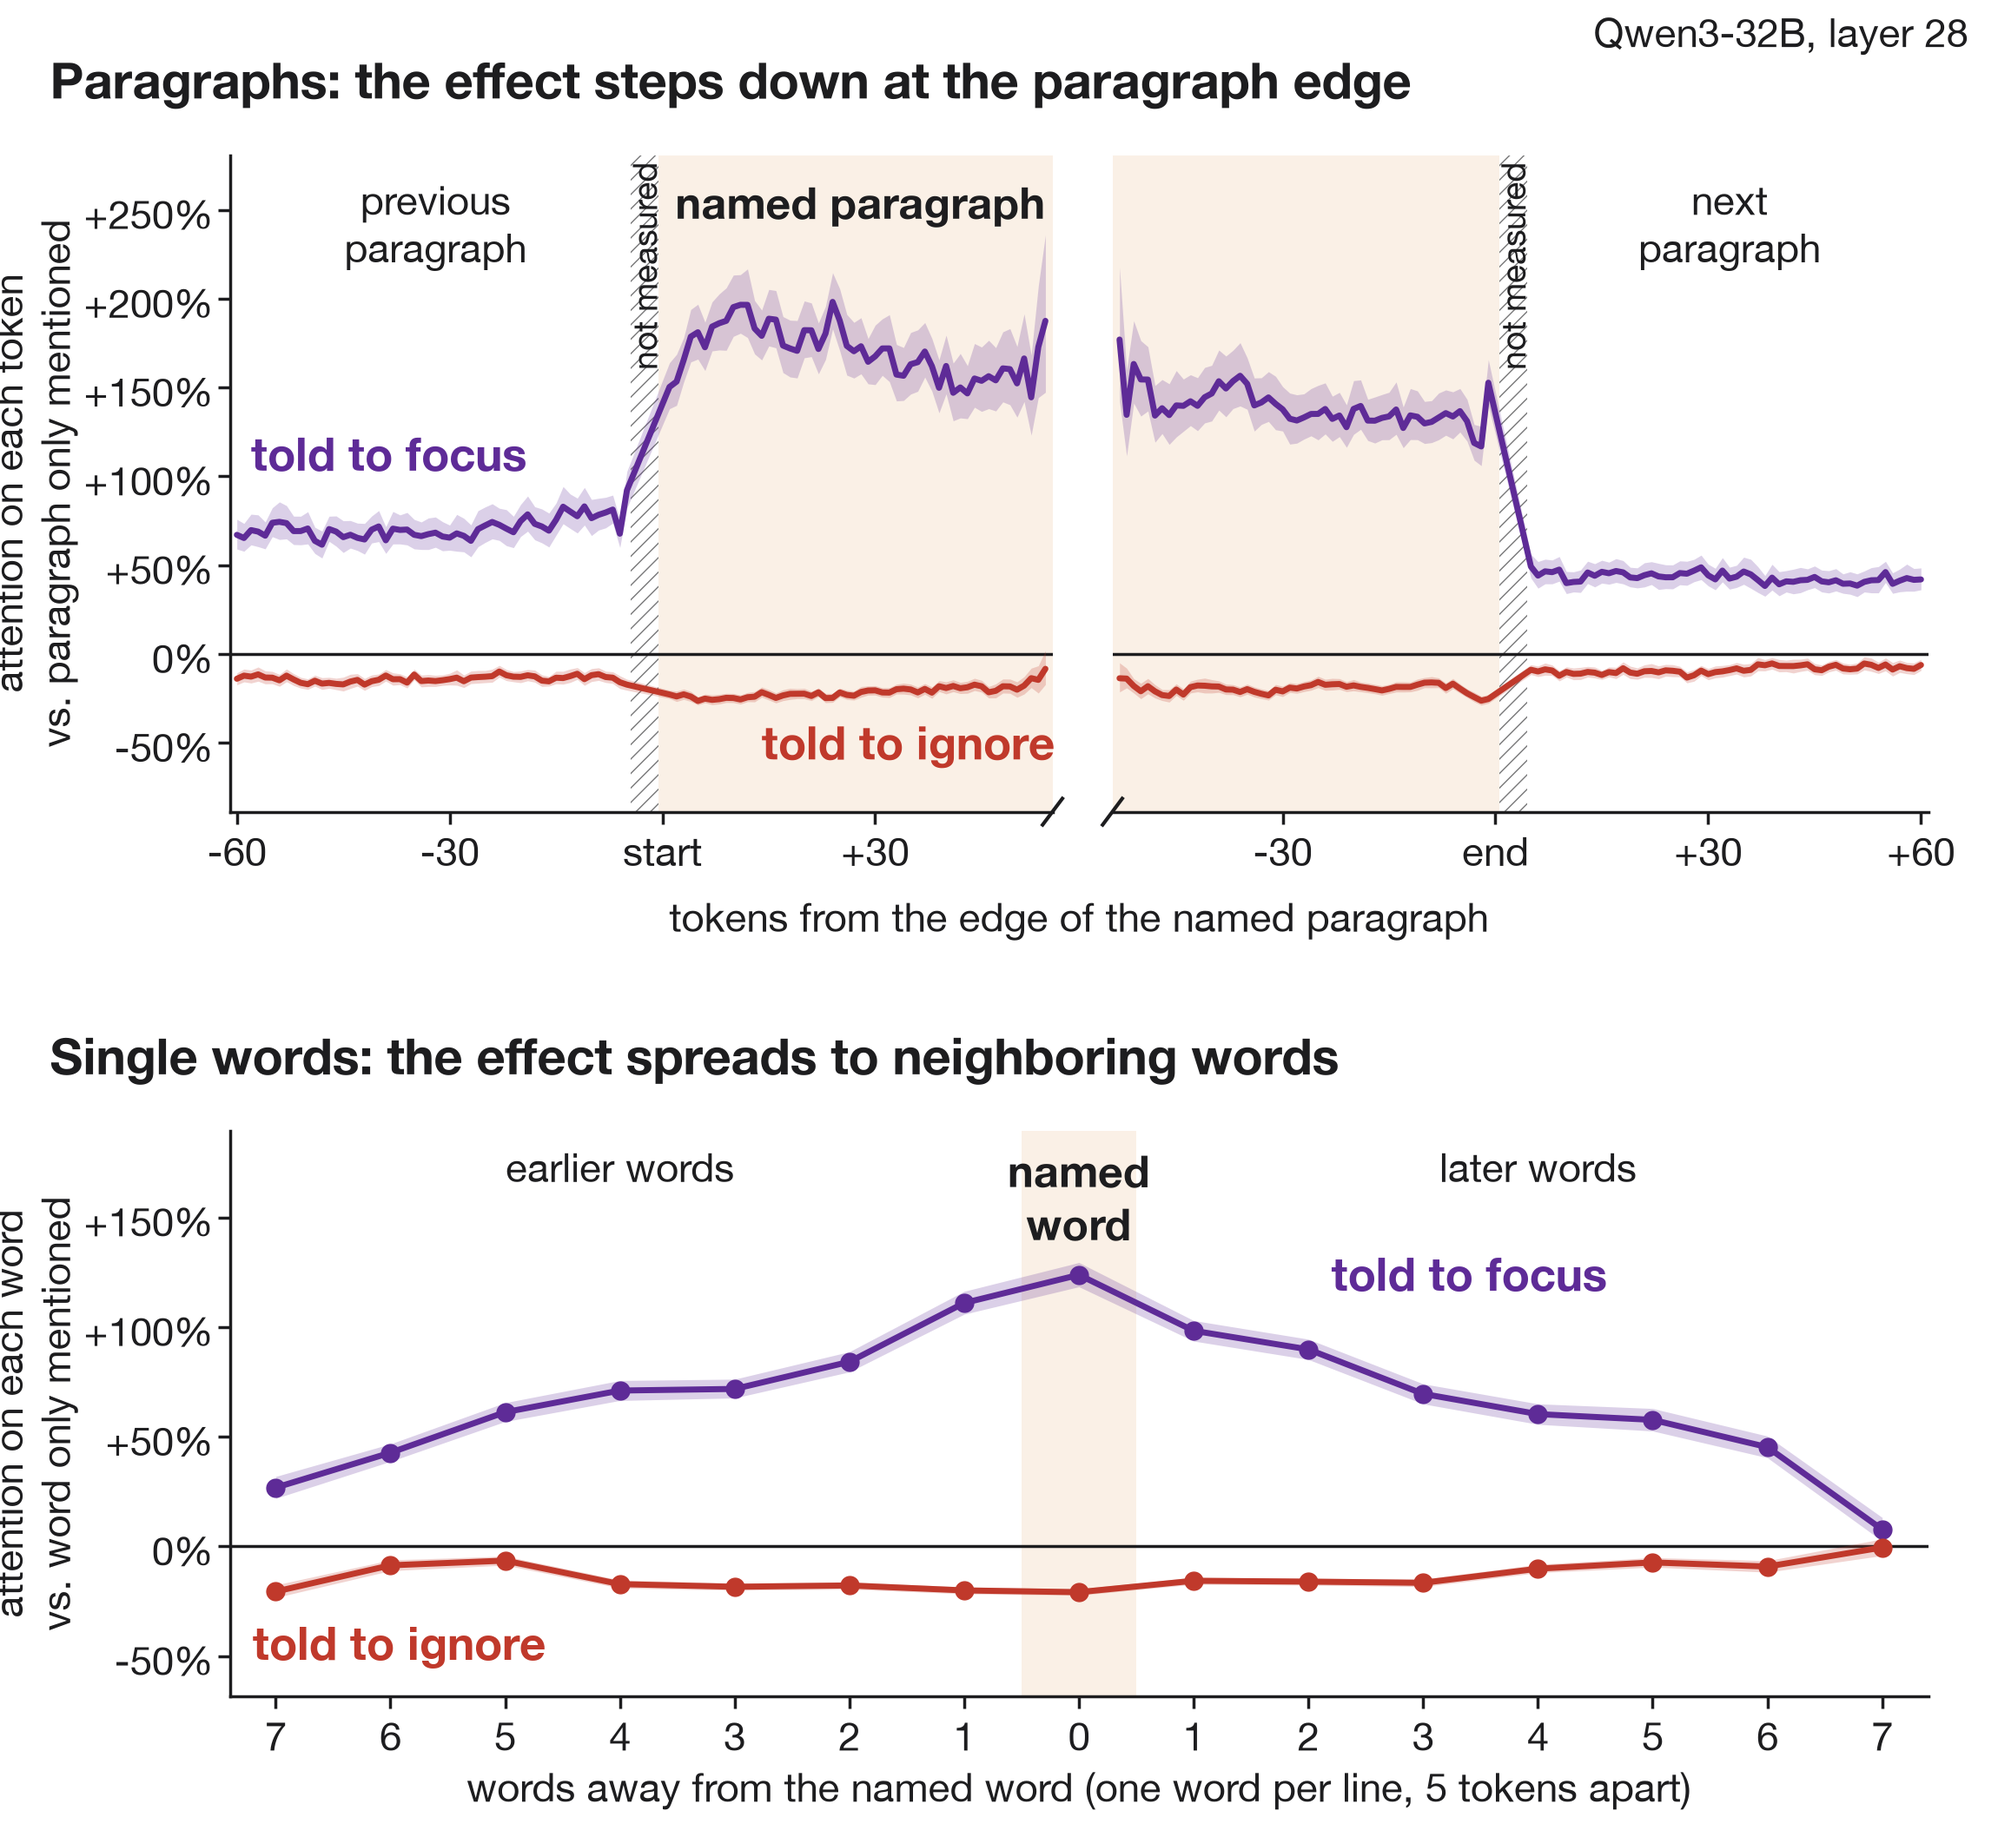
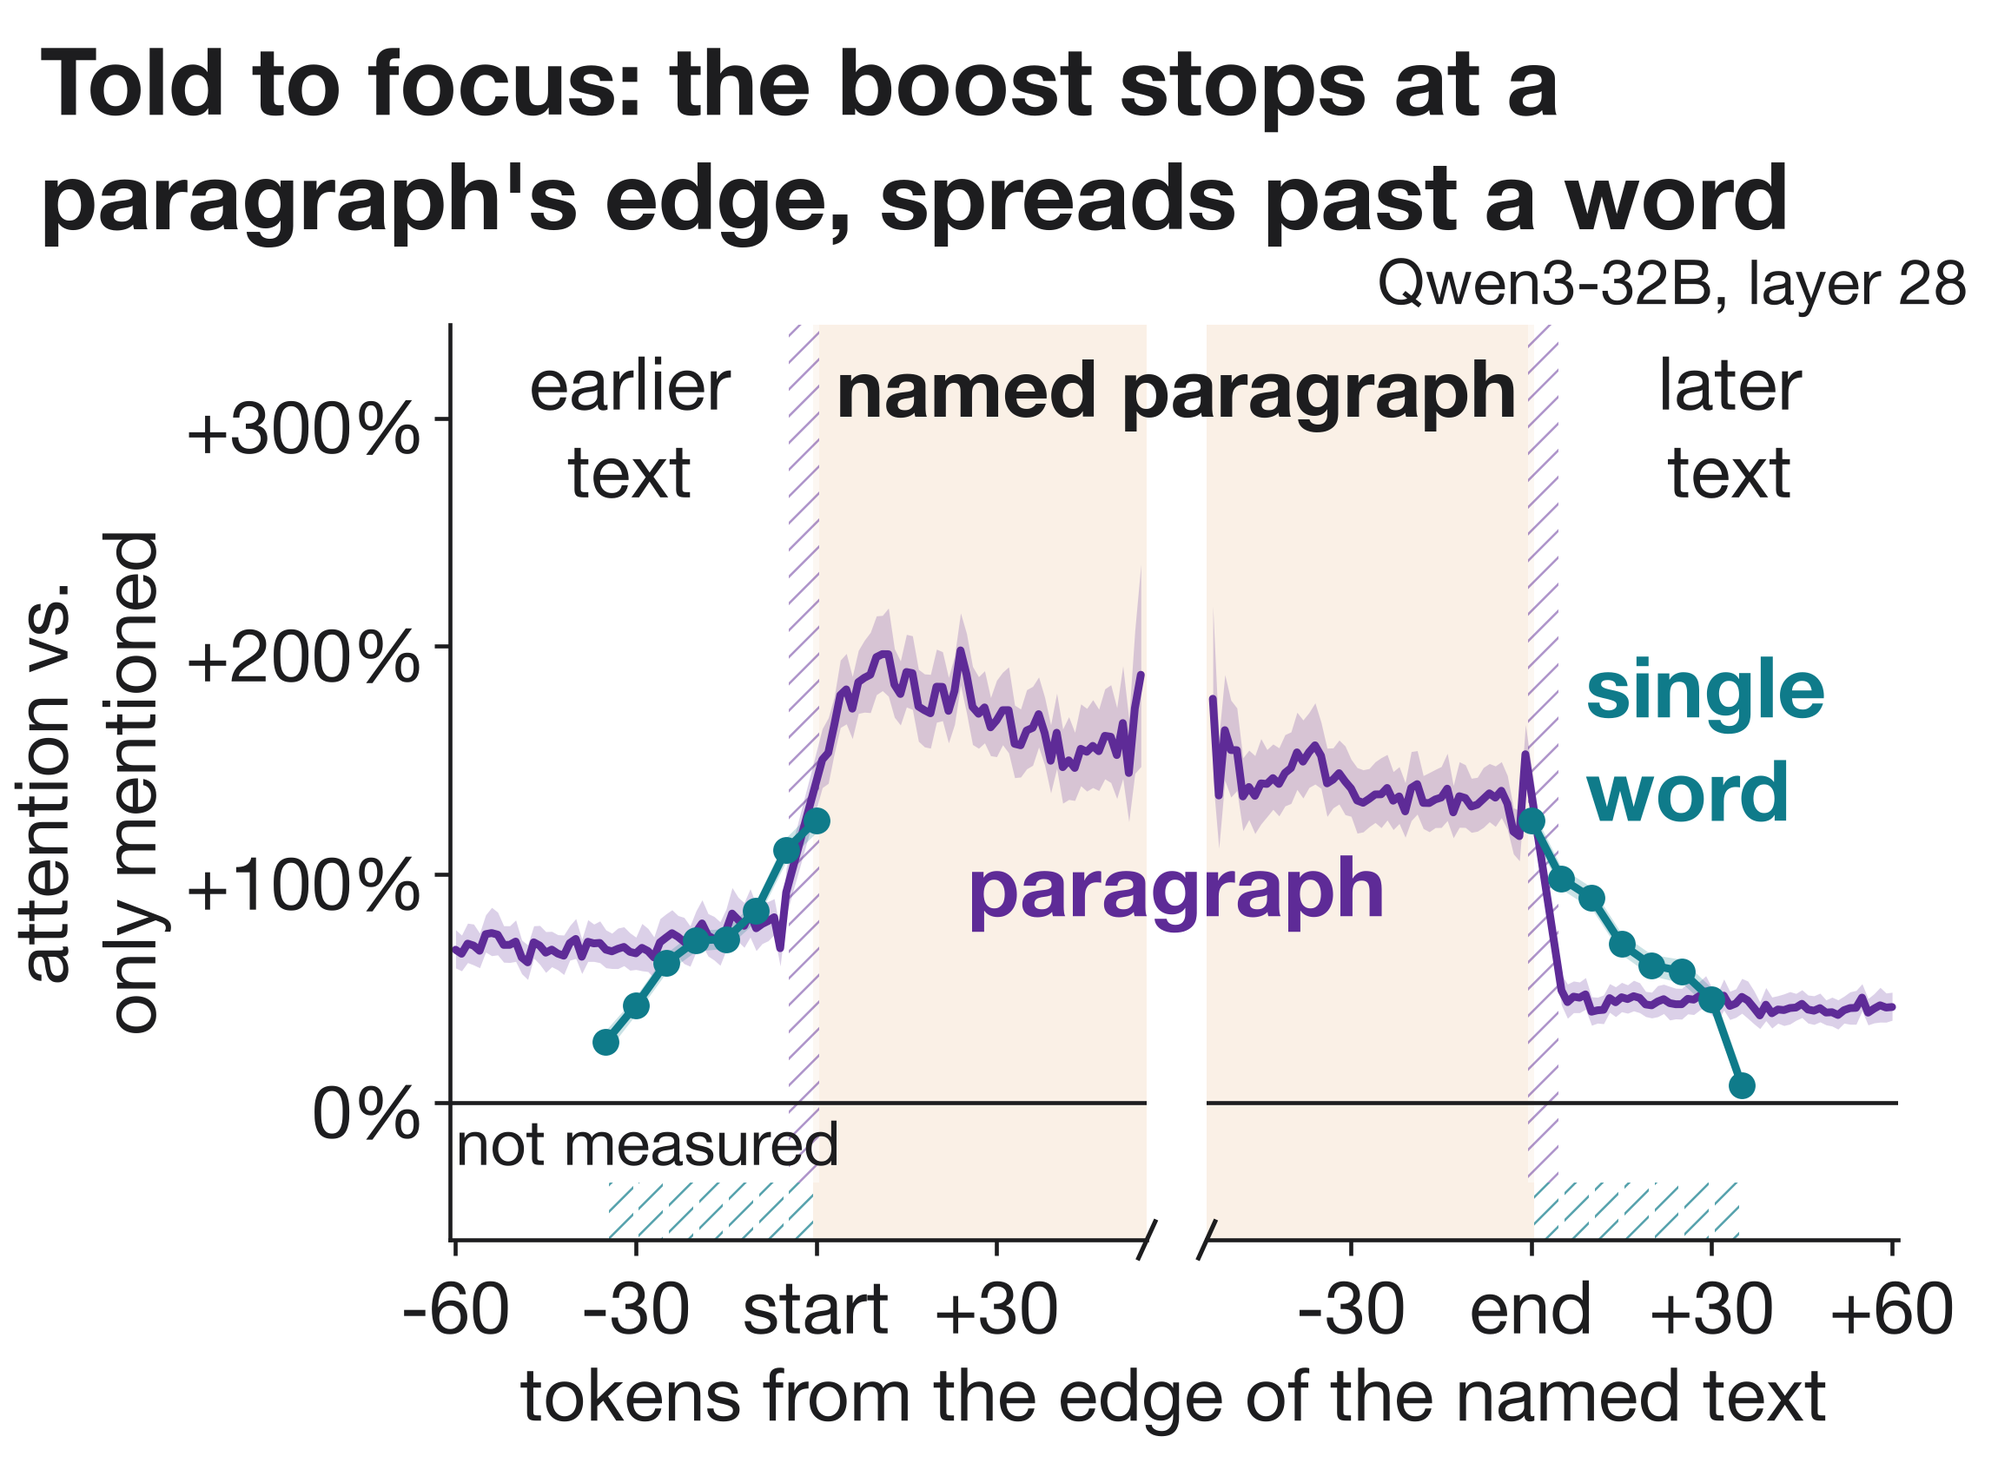
edge_decay: focus only, one plot on one token axis (paragraph and single-word lines; words at 5-token spacing, the 4 unmeasured tokens between words hatched; paragraph edge hatch widened to the 5 unmeasured tokens incl. first word / end token); text ~1.85x larger (Sauers)

diff --git a/figures/edge_decay.py b/figures/edge_decay.py
@@ -1,5 +1,5 @@
 # How sharply the attention instruction's effect stops at the named item's edge (Qwen3-32B, layer 28, attention from the answer tokens).
-# Top: four paragraphs (results/qwen3-32b-grid-ci/G.json, 100 contexts x 4 named paragraphs). Bottom: eight single-token words, one per line
+# One plot, told-to-focus only, one token axis broken into start edge | end edge. Paragraph line: four paragraphs (results/qwen3-32b-grid-ci/G.json, 100 contexts x 4 named paragraphs). Single-word line: eight single-token words, one per line
 # (results/privileged_words, in-order run, 100 contexts x 8 named words). Per token: log(attention under "focus"/"ignore" / attention under
 # the matching "only mentioned" prompt), same context, same token; averaged per context at each distance, then over contexts; shown as %.
 # Band = 95% bootstrap CI over contexts. Distance = tokens from the named paragraph's first text token (start edge) or last text token
@@ -77,66 +77,54 @@ summary = {c: {k: [round(float(t), 1) for t in PD[c][k][:3]] for k in ("inside",
 for c in WD: summary[c]["words_by_lines_away"] = {int(x // 5): [round(float(t), 1) for t in y] for x, y in zip(*WD[c])}
 json.dump(summary, open(f"{HERE}/edge_decay.json", "w"), indent=1); print(json.dumps(summary, indent=1))
 
-# ---------- draw
+# ---------- draw: focus only, one token axis (broken: start edge | end edge); paragraph and single word on it
+TEAL = "#0F7B8A"
+K = 1.85  # text ~1.85x larger relative to the canvas (Sauers: "increase font size a lot")
 plt.rcParams.update({"font.family": "Helvetica Neue", "font.size": 33, "text.color": INK, "axes.labelcolor": INK, "xtick.color": INK, "ytick.color": INK,
-                     "axes.edgecolor": INK, "axes.linewidth": 2.5, "xtick.major.width": 2.5, "ytick.major.width": 2.5, "xtick.major.size": 10, "ytick.major.size": 10})
-fig = plt.figure(figsize=(23, 21), dpi=100)
+                     "axes.edgecolor": INK, "axes.linewidth": 1.8, "xtick.major.width": 1.8, "ytick.major.width": 1.8, "xtick.major.size": 7, "ytick.major.size": 7})
+fig = plt.figure(figsize=(23 / K, 17 / K), dpi=100 * K)
 pct = lambda v, _=None: "0%" if abs(v) < 1e-9 else f"{v:+.0f}%"
-LW = 5
-def band(ax, xs, Y, col):
-    ax.fill_between(xs, Y[:, 1], Y[:, 2], color=col, alpha=.22, lw=0); ax.plot(xs, Y[:, 0], color=col, lw=LW, solid_capstyle="round")
-def style(ax):
-    for s in ("top", "right"): ax.spines[s].set_visible(False)
-    ax.axhline(0, color=INK, lw=2.5, zorder=0)
-    ax.yaxis.set_major_formatter(plt.FuncFormatter(pct))
-
-lo = min(PD["ignore"]["S"][1][:, 1].min(), PD["ignore"]["E"][1][:, 1].min()) - 60
-hi = max(PD["focus"]["S"][1][:, 2].max(), PD["focus"]["E"][1][:, 2].max()) + 45
-L, B, Wd, H, gap = 0.115, 0.555, 0.85, 0.36, 0.03
+LW = 3.5
+def band(ax, xs, Y, col, **kw):
+    ax.fill_between(xs, Y[:, 1], Y[:, 2], color=col, alpha=.22, lw=0); ax.plot(xs, Y[:, 0], color=col, lw=LW, solid_capstyle="round", **kw)
+xw, Yw = WD["focus"]
+lo, hi = -60, max(PD["focus"]["S"][1][:, 2].max(), PD["focus"]["E"][1][:, 2].max()) + 105
+L, B, Wd, H, gap = 0.225, 0.16, 0.725, 0.62, 0.03
 xS, xE = PD["focus"]["S"][0], PD["focus"]["E"][0]
 spanS, spanE = (-XL - 1, xS.max() + 1), (xE.min() - 1, XL + 1)
 fr = (spanS[1] - spanS[0]) / ((spanS[1] - spanS[0]) + (spanE[1] - spanE[0]))
 a1 = fig.add_axes([L, B, (Wd - gap) * fr, H]); a2 = fig.add_axes([L + (Wd - gap) * fr + gap, B, (Wd - gap) * (1 - fr), H], sharey=a1)
+LANE = 25  # word lists: hatched lane marks the 4 unmeasured tokens (newline, line label) between consecutive words
 for ax, key, (x0, x1) in ((a1, "S", spanS), (a2, "E", spanE)):
-    style(ax); ax.set_xlim(x0, x1); ax.set_ylim(lo, hi)
+    for s in ("top", "right"): ax.spines[s].set_visible(False)
+    ax.axhline(0, color=INK, lw=1.8, zorder=0); ax.yaxis.set_major_formatter(plt.FuncFormatter(pct))
+    ax.set_xlim(x0, x1); ax.set_ylim(lo, hi)
     inside = (0, x1) if key == "S" else (x0, 0)
     ax.add_patch(Rectangle((inside[0] - .5 if key == "S" else inside[0], lo), inside[1] - inside[0] + .5, hi - lo, color=CREAM, zorder=-2, lw=0))
-    g0 = -4.5 if key == "S" else .5
-    ax.add_patch(Rectangle((g0, lo), 4, hi - lo, facecolor="white", edgecolor=INK, hatch="//", lw=0, alpha=.6, zorder=-1))
-    for c, col in (("focus", PURPLE), ("ignore", RED)): band(ax, PD[c][key][0], PD[c][key][1], col)
+    g0 = -4.5 if key == "S" else -.5  # 5 unmeasured tokens: S -4..0 (first word at 0), E 0..4 (the end token at 0)
+    ax.add_patch(Rectangle((g0, lo + LANE), 5, hi - lo - LANE, facecolor="white", edgecolor=PURPLE, hatch="//", lw=0, alpha=.5, zorder=-1))
+    sg = -1 if key == "S" else 1
+    for k in range(7):
+        ax.add_patch(Rectangle((sg * (5 * k + .5) - (4 if sg < 0 else 0), lo), 4, LANE, facecolor="white", edgecolor=TEAL, hatch="//", lw=0, alpha=.7, zorder=-1))
+    band(ax, PD["focus"][key][0], PD["focus"][key][1], PURPLE)
+    m = (xw <= 0) if key == "S" else (xw >= 0)
+    band(ax, xw[m], Yw[m], TEAL); ax.plot(xw[m], Yw[m, 0], "o", color=TEAL, ms=11)
     ax.set_xticks([-60, -30, 0, 30] if key == "S" else [-30, 0, 30, 60]); ax.set_xticklabels(["-60", "-30", "start", "+30"] if key == "S" else ["-30", "end", "+30", "+60"])
 a2.spines["left"].set_visible(False); a2.tick_params(axis="y", left=False, labelleft=False)
-a1.spines["right"].set_visible(False)
 for ax, x in ((a1, 1), (a2, 0)):  # break marks
-    ax.plot([x - .012, x + .012], [-.02, .02], transform=ax.transAxes, color=INK, lw=3, clip_on=False)
-ytop = hi - 12
-a1.text(-XL / 2 - 2, ytop, "previous\nparagraph", ha="center", va="top", fontsize=33)
-a2.text(XL / 2 + 3, ytop, "next\nparagraph", ha="center", va="top", fontsize=33)
-a1.text(spanS[1] - 1, ytop, "named paragraph", ha="right", va="top", fontsize=36, fontweight="bold")
-a1.text(-2.5, hi - 4, "not measured", rotation=90, ha="center", va="top", fontsize=28)
-a2.text(2.5, hi - 4, "not measured", rotation=90, ha="center", va="top", fontsize=28)
-fy = PD["focus"]["S"][1]; iy = PD["ignore"]["S"][1]
-a1.text(-58, float(PD["focus"]["S"][1][PD["focus"]["S"][0] < -20, 2].max()) + 12, "told to focus", color=PURPLE, fontsize=38, fontweight="bold", ha="left", va="bottom")
-a1.text(14, float(iy[(xS >= 8) & (xS <= 20), 1].min()) - 6, "told to ignore", color=RED, fontsize=38, fontweight="bold", ha="left", va="top")
-a1.set_ylabel("attention on each token\nvs. paragraph only mentioned")
-fig.text(L + Wd / 2, B - 0.045, "tokens from the edge of the named paragraph", ha="center", va="top")
-fig.text(L - 0.09, B + H + 0.025, "Paragraphs: the effect steps down at the paragraph edge", fontsize=42, fontweight="bold", va="bottom")
-
-# words
-a3 = fig.add_axes([L, 0.07, Wd, 0.31]); style(a3)
-xs = WD["focus"][0]; lo3 = WD["ignore"][1][:, 1].min() - 45; hi3 = WD["focus"][1][:, 2].max() + 60
-a3.set_xlim(-37, 37); a3.set_ylim(lo3, hi3)
-a3.add_patch(Rectangle((-2.5, lo3), 5, hi3 - lo3, color=CREAM, zorder=-2, lw=0))
-for c, col in (("focus", PURPLE), ("ignore", RED)):
-    x, Y = WD[c]; band(a3, x, Y, col); a3.plot(x, Y[:, 0], "o", color=col, ms=15)
-a3.set_xticks(range(-35, 36, 5)); a3.set_xticklabels([str(abs(v) // 5) if v else "0" for v in range(-35, 36, 5)])
-a3.text(0, hi3 - 6, "named\nword", ha="center", va="top", fontsize=36, fontweight="bold")
-a3.text(-20, hi3 - 6, "earlier words", ha="center", va="top"); a3.text(20, hi3 - 6, "later words", ha="center", va="top")
-a3.text(11, 112, "told to focus", color=PURPLE, fontsize=38, fontweight="bold", ha="left", va="bottom")
-a3.text(-36, WD["ignore"][1][0, 1] - 8, "told to ignore", color=RED, fontsize=38, fontweight="bold", ha="left", va="top")
-a3.set_ylabel("attention on each word\nvs. word only mentioned")
-a3.set_xlabel("words away from the named word (one word per line, 5 tokens apart)")
-fig.text(L - 0.09, 0.07 + 0.31 + 0.025, "Single words: the effect spreads to neighboring words", fontsize=42, fontweight="bold", va="bottom")
-fig.text(0.985, 0.995, "Qwen3-32B, layer 28", ha="right", va="top", fontsize=33)
+    ax.plot([x - .012, x + .012], [-.02, .02], transform=ax.transAxes, color=INK, lw=2, clip_on=False)
+ytop = hi - 6
+a1.text(-XL / 2 - 1, ytop, "earlier\ntext", ha="center", va="top")
+a2.text(XL / 2 + 3, ytop, "later\ntext", ha="center", va="top")
+a1.text(-XL, lo + LANE + 2, "not measured", ha="left", va="bottom", fontsize=28)
+xb = L + (Wd - gap) * fr + gap / 2; yf = lambda v: B + H * (v - lo) / (hi - lo)  # centred on the axis break, over both halves of the named paragraph
+fig.text(xb, yf(ytop), "named paragraph", ha="center", va="top", fontsize=36, fontweight="bold")
+fig.text(xb, yf(118), "paragraph", color=PURPLE, fontsize=38, fontweight="bold", ha="center", va="top")
+a2.text(9, float(Yw[xw == 5, 2][0]) + 12, "single\nword", color=TEAL, fontsize=38, fontweight="bold", ha="left", va="bottom")
+a1.set_ylabel("attention vs.\nonly mentioned", labelpad=6)
+fig.text(L + Wd / 2, B - 0.075, "tokens from the edge of the named text", ha="center", va="top")
+fig.text(0.02, 0.985, "Told to focus: the boost stops at a\nparagraph's edge, spreads past a word", fontsize=42, fontweight="bold", va="top")
+fig.text(0.985, B + H + 0.005, "Qwen3-32B, layer 28", ha="right", va="bottom", fontsize=28)
 fig.savefig(f"{HERE}/edge_decay.png", facecolor="white")
 subprocess.run(["sips", "-s", "format", "jpeg", "-s", "formatOptions", "88", "-Z", "2300", f"{HERE}/edge_decay.png", "--out", f"{HERE}/edge_decay.jpg"], check=True, capture_output=True)
+print("xS near 0:", [int(v) for v in xS if -8 < v < 3], "xE near 0:", [int(v) for v in xE if -3 < v < 8])
